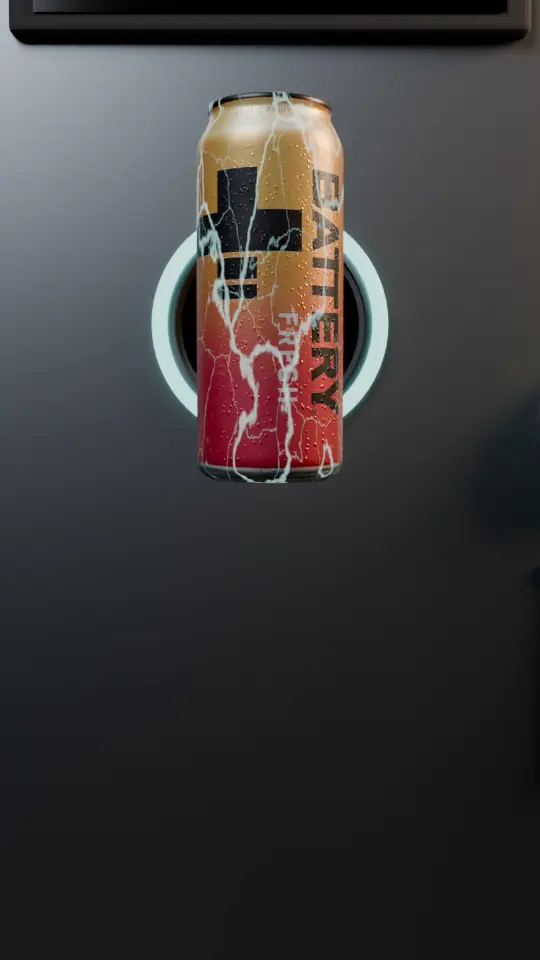
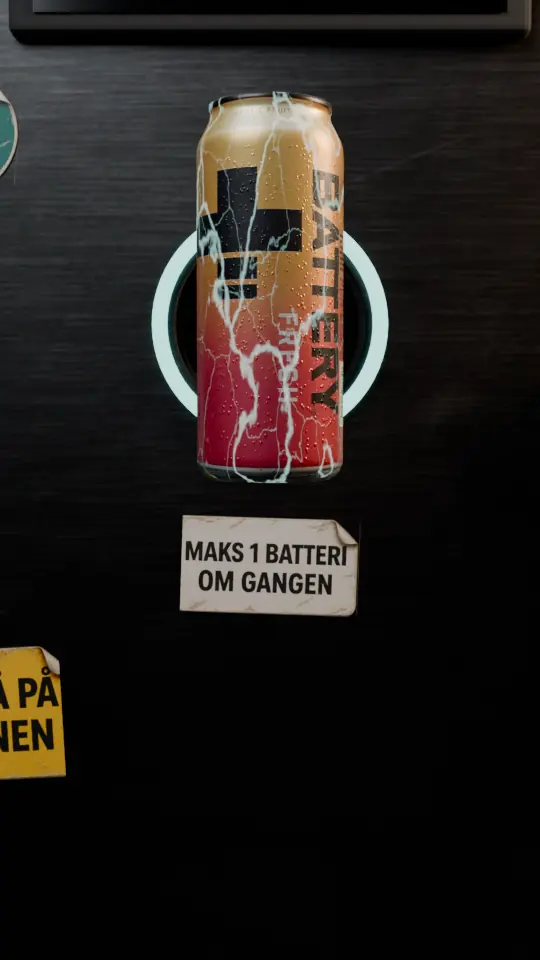
Nye stillbilder og delingsbilde med bakgården, kreditering av Higgsfield-teksturene
Claude-Session: https://claude.ai/code/session_01FQZD6CDDEqx3bD7pBx6gqG

diff --git a/lib/pant/main.js b/lib/pant/main.js
@@ -1,1 +1,1 @@
-import{a as y,b as u,c as b}from"./chunk-TCYOSPA3.js";import{b as d,c as v,d as m,e as h,r as p}from"./chunk-IAWZOY4S.js";var D={intro:{verb:"",say:"Batteribytte. En pantemaskin for flate batterier v\xE5kner i m\xF8rket."},wait:{verb:""},drag:{verb:"Dra batteriet inn",hint:"Dra den flate boksen inn i hullet",say:"Du holder en flat, gr\xE5 Battery-boks. Siste strek blinker r\xF8dt. Dra den inn i hullet p\xE5 pantemaskinen, eller trykk Enter."},roll:{verb:"Rull boksen",hint:"Rull boksen til strekkoden vender opp",say:"Avvist: strekkoden vises ikke. Rull boksen med piltastene, dra opp og ned, eller trykk Enter."},press:{verb:"Trykk PANT",hint:"Trykk p\xE5 den gr\xF8nne knappen",say:"Godkjent, og knust. Trykk p\xE5 den gr\xF8nne PANT-knappen, eller trykk Enter."},shake:{verb:"Rist maskinen",hint:"Det nye batteriet sitter fast \u2013 rist!",say:"Pantelappen er skrevet ut, men det nye batteriet sitter fast. Rist telefonen, dra fram og tilbake over skjermen, eller trykk R flere ganger."},hold:{verb:"Hold for \xE5 lade",hint:"Hold p\xE5 batteriet til det er fullt",say:"Det ferske batteriet svever foran deg. Hold p\xE5 det, eller hold mellomrom, til logoen er fylt. Enter lader av seg selv."},flick:{verb:"\xC5pne",hint:"Dra fliken opp",say:"Hundre prosent. Dra fliken opp, eller trykk pil opp."},drink:{verb:"Ta en slurk",hint:"Vipp telefonen mot deg, eller dra ned",say:"Boksen er \xE5pen, iskald og bruser. Ta en slurk: vipp telefonen mot deg, dra ned over skjermen, eller trykk pil ned eller Enter."},done:{verb:"",say:"Batteriet er byttet. Pantelappen er klar, du kan dele den."}},r=e=>document.querySelector(e),k=document.documentElement,a=r("#act"),g=r("#hint"),w=r("#status"),c=r("#sound"),n=null,l="intro",f={step(e){l=e;let t=D[e]||{};k.dataset.step=e,a.hidden=!t.verb,a.querySelector(".verb").textContent=t.verb||"",g.textContent=t.hint||"",t.say&&(w.textContent=t.say),t.verb&&!a.contains(document.activeElement)&&!r("#lapp").contains(document.activeElement)&&a.focus({preventScroll:!0})},hint(e){g.textContent=e,w.textContent=e}},L=0;a.addEventListener("pointerdown",e=>{d(),l==="hold"&&n&&(e.preventDefault(),L=performance.now(),a.setPointerCapture(e.pointerId),n.hold(!0))});var S=()=>{l==="hold"&&n&&(n.hold(!1),performance.now()-L<280&&n.act())};a.addEventListener("pointerup",S);a.addEventListener("pointercancel",S);a.addEventListener("click",e=>{n&&(l==="hold"&&e.detail!==0||(p(),n.act()))});a.addEventListener("contextmenu",e=>e.preventDefault());addEventListener("keydown",e=>{if(e.metaKey||e.ctrlKey||e.altKey||!n)return;let t=e.key;if(t==="m"||t==="M"){c.click();return}r("#lapp").contains(document.activeElement)||(d(),t==="ArrowUp"?(e.preventDefault(),n.key("up")):t==="ArrowDown"?(e.preventDefault(),n.key("down")):t==="r"||t==="R"?n.key("shake"):t===" "?(e.preventDefault(),l==="shake"?n.key("shake"):l==="hold"?e.repeat||n.hold(!0):!e.repeat&&document.activeElement!==a?n.act():e.repeat||n.act()):t==="Enter"&&document.activeElement!==a&&!e.repeat&&n.act())});addEventListener("keyup",e=>{e.key===" "&&l==="hold"&&n&&(e.preventDefault(),n.hold(!1))});c.addEventListener("click",()=>{d();let e=!m();v(e),p(),c.setAttribute("aria-pressed",String(e)),c.title=e?"Sl\xE5 av lyd (M)":"Sl\xE5 p\xE5 lyd (M)"});document.addEventListener("visibilitychange",()=>h(document.hidden));async function R(e){f.step("done"),await u();let t=y(document.createElement("canvas"),e),o=r("#lapp");r("#lapp-img").src=t.toDataURL("image/png"),o.hidden=!1,o.offsetWidth,o.classList.add("in"),r("#share").focus({preventScroll:!0}),r("#share").onclick=async()=>{let s=await b(t,location.href.split("#")[0]);C(s==="copied"?"Lenke kopiert \u2013 lim den inn til kollegaene":s==="failed"?"Kunne ikke dele. Kopier adressen fra nettleseren.":"")},r("#again").onclick=()=>location.reload();let i=r("#ar");if(i.relList&&i.relList.supports&&i.relList.supports("ar"))i.hidden=!1;else if(/android/i.test(navigator.userAgent)){let s=new URL("assets/can/battery-can-ar.glb",location.href).href;i.removeAttribute("rel"),i.href=`intent://arvr.google.com/scene-viewer/1.0?file=${encodeURIComponent(s)}&mode=ar_preferred&title=${encodeURIComponent("Battery Fresh")}#Intent;scheme=https;package=com.google.android.googlequicksearchbox;action=android.intent.action.VIEW;S.browser_fallback_url=${encodeURIComponent(location.href)};end;`,i.hidden=!1}}var E=0;function C(e){if(!e)return;let t=r("#toast");t.textContent=e,t.hidden=!1,clearTimeout(E),E=setTimeout(()=>{t.hidden=!0},2800)}function T(){try{let e=document.createElement("canvas");return!!(window.WebGLRenderingContext&&(e.getContext("webgl2")||e.getContext("webgl")))}catch{return!1}}async function x(){if(u(),!matchMedia("(prefers-reduced-motion: reduce)").matches&&T())try{let{createWorld:o}=await import("./world-6OMLIBCX.js");n=await o(r("#gl"),f),k.classList.add("live")}catch(o){console.warn("Batteribytte: 3D off",o),n=null}if(!n){let{createLite:o}=await import("./lite-GFYDCD6D.js");n=o(f),k.classList.add("lite")}let t=await n.run();R(t)}x();
+import{a as y,b as u,c as b}from"./chunk-TCYOSPA3.js";import{b as d,c as v,d as m,e as h,r as p}from"./chunk-IAWZOY4S.js";var D={intro:{verb:"",say:"Batteribytte. En pantemaskin for flate batterier v\xE5kner i m\xF8rket."},wait:{verb:""},drag:{verb:"Dra batteriet inn",hint:"Dra den flate boksen inn i hullet",say:"Du holder en flat, gr\xE5 Battery-boks. Siste strek blinker r\xF8dt. Dra den inn i hullet p\xE5 pantemaskinen, eller trykk Enter."},roll:{verb:"Rull boksen",hint:"Rull boksen til strekkoden vender opp",say:"Avvist: strekkoden vises ikke. Rull boksen med piltastene, dra opp og ned, eller trykk Enter."},press:{verb:"Trykk PANT",hint:"Trykk p\xE5 den gr\xF8nne knappen",say:"Godkjent, og knust. Trykk p\xE5 den gr\xF8nne PANT-knappen, eller trykk Enter."},shake:{verb:"Rist maskinen",hint:"Det nye batteriet sitter fast \u2013 rist!",say:"Pantelappen er skrevet ut, men det nye batteriet sitter fast. Rist telefonen, dra fram og tilbake over skjermen, eller trykk R flere ganger."},hold:{verb:"Hold for \xE5 lade",hint:"Hold p\xE5 batteriet til det er fullt",say:"Det ferske batteriet svever foran deg. Hold p\xE5 det, eller hold mellomrom, til logoen er fylt. Enter lader av seg selv."},flick:{verb:"\xC5pne",hint:"Dra fliken opp",say:"Hundre prosent. Dra fliken opp, eller trykk pil opp."},drink:{verb:"Ta en slurk",hint:"Vipp telefonen mot deg, eller dra ned",say:"Boksen er \xE5pen, iskald og bruser. Ta en slurk: vipp telefonen mot deg, dra ned over skjermen, eller trykk pil ned eller Enter."},done:{verb:"",say:"Batteriet er byttet. Pantelappen er klar, du kan dele den."}},r=e=>document.querySelector(e),k=document.documentElement,a=r("#act"),g=r("#hint"),w=r("#status"),c=r("#sound"),n=null,l="intro",f={step(e){l=e;let t=D[e]||{};k.dataset.step=e,a.hidden=!t.verb,a.querySelector(".verb").textContent=t.verb||"",g.textContent=t.hint||"",t.say&&(w.textContent=t.say),t.verb&&!a.contains(document.activeElement)&&!r("#lapp").contains(document.activeElement)&&a.focus({preventScroll:!0})},hint(e){g.textContent=e,w.textContent=e}},L=0;a.addEventListener("pointerdown",e=>{d(),l==="hold"&&n&&(e.preventDefault(),L=performance.now(),a.setPointerCapture(e.pointerId),n.hold(!0))});var S=()=>{l==="hold"&&n&&(n.hold(!1),performance.now()-L<280&&n.act())};a.addEventListener("pointerup",S);a.addEventListener("pointercancel",S);a.addEventListener("click",e=>{n&&(l==="hold"&&e.detail!==0||(p(),n.act()))});a.addEventListener("contextmenu",e=>e.preventDefault());addEventListener("keydown",e=>{if(e.metaKey||e.ctrlKey||e.altKey||!n)return;let t=e.key;if(t==="m"||t==="M"){c.click();return}r("#lapp").contains(document.activeElement)||(d(),t==="ArrowUp"?(e.preventDefault(),n.key("up")):t==="ArrowDown"?(e.preventDefault(),n.key("down")):t==="r"||t==="R"?n.key("shake"):t===" "?(e.preventDefault(),l==="shake"?n.key("shake"):l==="hold"?e.repeat||n.hold(!0):!e.repeat&&document.activeElement!==a?n.act():e.repeat||n.act()):t==="Enter"&&document.activeElement!==a&&!e.repeat&&n.act())});addEventListener("keyup",e=>{e.key===" "&&l==="hold"&&n&&(e.preventDefault(),n.hold(!1))});c.addEventListener("click",()=>{d();let e=!m();v(e),p(),c.setAttribute("aria-pressed",String(e)),c.title=e?"Sl\xE5 av lyd (M)":"Sl\xE5 p\xE5 lyd (M)"});document.addEventListener("visibilitychange",()=>h(document.hidden));async function R(e){f.step("done"),await u();let t=y(document.createElement("canvas"),e),o=r("#lapp");r("#lapp-img").src=t.toDataURL("image/png"),o.hidden=!1,o.offsetWidth,o.classList.add("in"),r("#share").focus({preventScroll:!0}),r("#share").onclick=async()=>{let s=await b(t,location.href.split("#")[0]);C(s==="copied"?"Lenke kopiert \u2013 lim den inn til kollegaene":s==="failed"?"Kunne ikke dele. Kopier adressen fra nettleseren.":"")},r("#again").onclick=()=>location.reload();let i=r("#ar");if(i.relList&&i.relList.supports&&i.relList.supports("ar"))i.hidden=!1;else if(/android/i.test(navigator.userAgent)){let s=new URL("assets/can/battery-can-ar.glb",location.href).href;i.removeAttribute("rel"),i.href=`intent://arvr.google.com/scene-viewer/1.0?file=${encodeURIComponent(s)}&mode=ar_preferred&title=${encodeURIComponent("Battery Fresh")}#Intent;scheme=https;package=com.google.android.googlequicksearchbox;action=android.intent.action.VIEW;S.browser_fallback_url=${encodeURIComponent(location.href)};end;`,i.hidden=!1}}var E=0;function C(e){if(!e)return;let t=r("#toast");t.textContent=e,t.hidden=!1,clearTimeout(E),E=setTimeout(()=>{t.hidden=!0},2800)}function T(){try{let e=document.createElement("canvas");return!!(window.WebGLRenderingContext&&(e.getContext("webgl2")||e.getContext("webgl")))}catch{return!1}}async function x(){if(u(),!matchMedia("(prefers-reduced-motion: reduce)").matches&&T())try{let{createWorld:o}=await import("./world-72AR6HF2.js");n=await o(r("#gl"),f),k.classList.add("live")}catch(o){console.warn("Batteribytte: 3D off",o),n=null}if(!n){let{createLite:o}=await import("./lite-GFYDCD6D.js");n=o(f),k.classList.add("lite")}let t=await n.run();R(t)}x();

diff --git a/index.html b/index.html
@@ -19,7 +19,7 @@
 <link rel="icon" href="favicon.svg" type="image/svg+xml">
 <link rel="preload" href="assets/pant/stills/start.webp" as="image" fetchpriority="high">
 <link rel="preload" href="fonts/ArchivoBlack-400.woff" as="font" type="font/woff" crossorigin>
-<link rel="modulepreload" href="lib/pant/main.js?v=2f3a06c479">
+<link rel="modulepreload" href="lib/pant/main.js?v=35f6228804">
 <link rel="stylesheet" href="style.css">
 </head>
 <body>
@@ -61,6 +61,6 @@
   <p class="sr-only" id="status" aria-live="polite"></p>
   <noscript><p class="noscript">Batteribytte trenger JavaScript. Flat? Ta en Battery.</p></noscript>
 </main>
-<script type="module" src="lib/pant/main.js?v=2f3a06c479"></script>
+<script type="module" src="lib/pant/main.js?v=35f6228804"></script>
 </body>
 </html>
